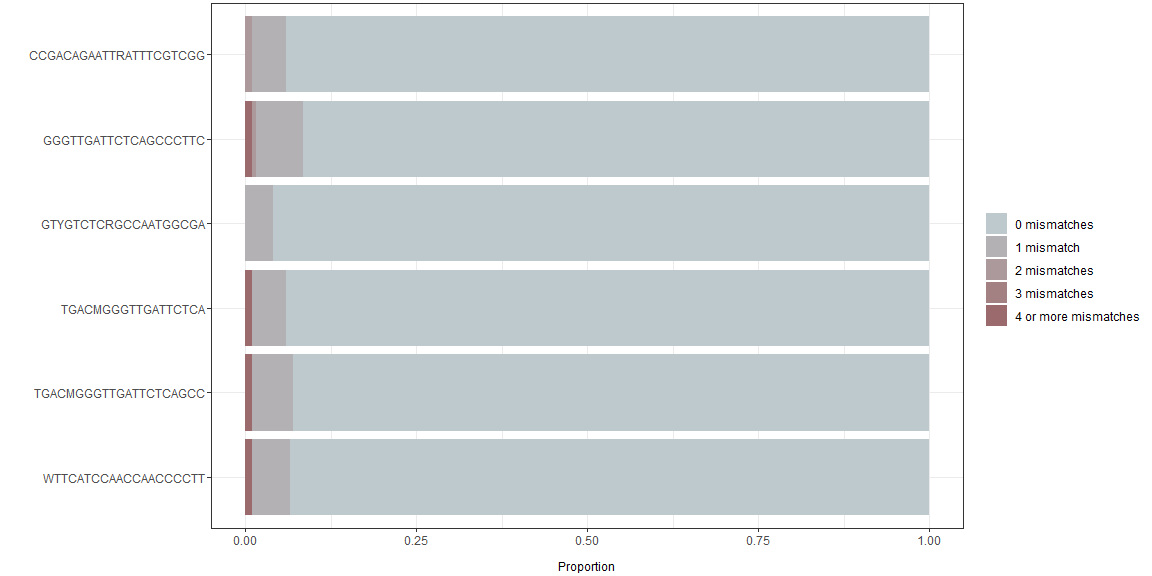
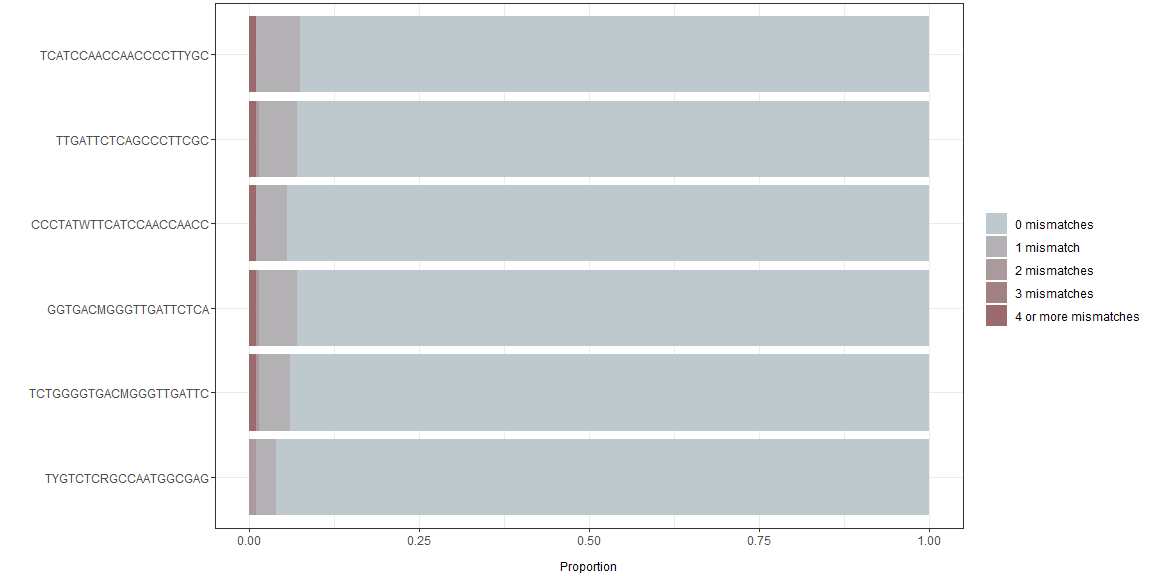
app fixes

diff --git a/README.md b/README.md
@@ -174,12 +174,12 @@ Results:
 
 | iupacSequence          | perfectMatch | idPerfectMatch | oneMismatch | idOneMismatch | twoMismatches | idTwoMismatches | threeMismatches | idThreeMismatches | fourOrMoreMismatches | idFourOrMoreMismatches |
 | :--------------------- | -----------: | :------------- | ----------: | :------------ | ------------: | :-------------- | --------------: | :---------------- | -------------------: | :--------------------- |
-| CCGACAGAATTRATTTCGTCGG |         0.94 | M73218.1….     |        0.05 | AY575857….    |          0.01 | MH410175….      |               0 |                   |                 0.00 |                        |
-| GGGTTGATTCTCAGCCCTTC   |         0.92 | M73218.1….     |        0.07 | AY575857….    |          0.00 | AB222183.1      |               0 |                   |                 0.01 | MN614142….             |
-| GTYGTCTCRGCCAATGGCGA   |         0.96 | M73218.1….     |        0.04 | AB630970….    |          0.00 |                 |               0 |                   |                 0.00 |                        |
-| TGACMGGGTTGATTCTCA     |         0.94 | M73218.1….     |        0.05 | AB222183….    |          0.00 |                 |               0 |                   |                 0.01 | MN614142….             |
-| TGACMGGGTTGATTCTCAGCC  |         0.93 | M73218.1….     |        0.06 | AB222183….    |          0.00 |                 |               0 |                   |                 0.01 | MN614142….             |
-| WTTCATCCAACCAACCCCTT   |         0.94 | M73218.1….     |        0.06 | FJ457024….    |          0.00 |                 |               0 |                   |                 0.01 | MN614142….             |
+| TCATCCAACCAACCCCTTYGC  |         0.92 | M73218.1….     |        0.06 | FJ457024….    |          0.00 |                 |               0 |                   |                 0.01 | MN614142….             |
+| TTGATTCTCAGCCCTTCGC    |         0.93 | M73218.1….     |        0.06 | JF443725….    |          0.00 | AB222183.1      |               0 |                   |                 0.01 | MN614142….             |
+| CCCTATWTTCATCCAACCAACC |         0.94 | M73218.1….     |        0.04 | AY575857….    |          0.00 |                 |               0 |                   |                 0.01 | MN614142….             |
+| GGTGACMGGGTTGATTCTCA   |         0.93 | M73218.1….     |        0.06 | AB222183….    |          0.00 | JQ953665.1      |               0 |                   |                 0.01 | MN614142….             |
+| TCTGGGGTGACMGGGTTGATTC |         0.94 | M73218.1….     |        0.04 | AB222183….    |          0.00 | JQ953665.1      |               0 |                   |                 0.01 | MN614142….             |
+| TYGTCTCRGCCAATGGCGAG   |         0.96 | M73218.1….     |        0.03 | AB630970….    |          0.01 | MN646690….      |               0 |                   |                 0.00 |                        |
 
 The match table can be visualized using `plotData()`:
 
